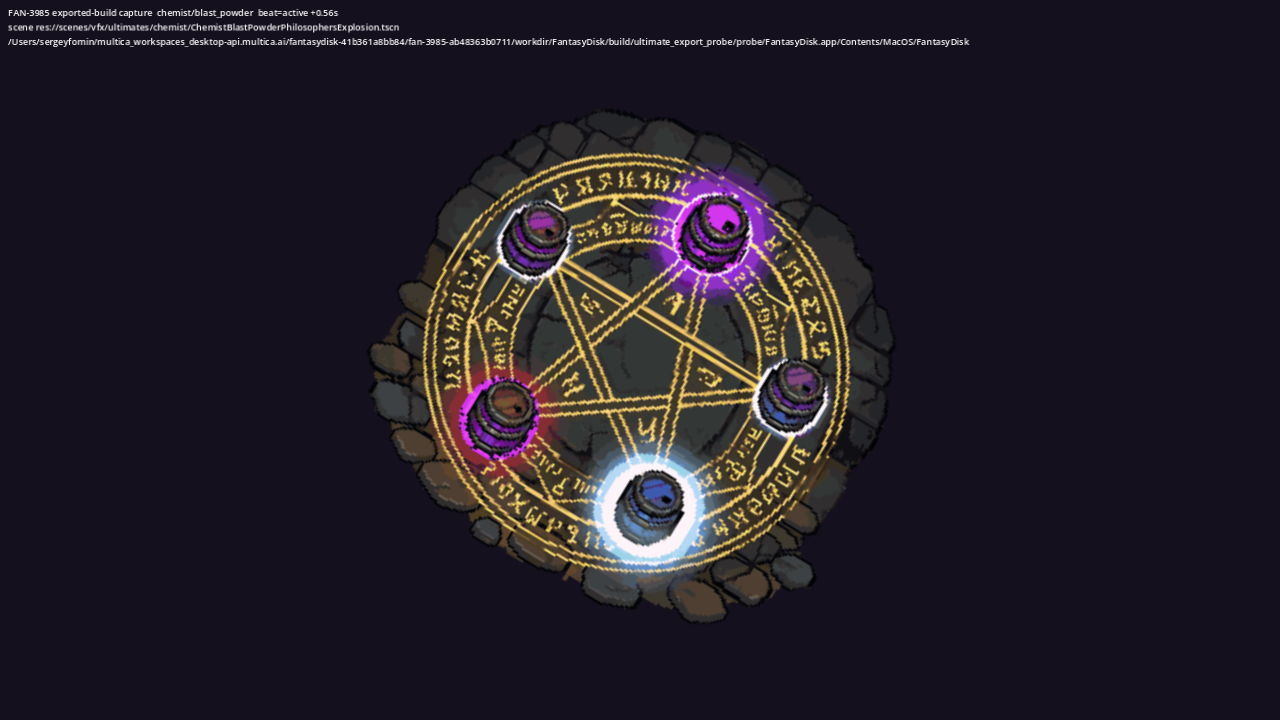
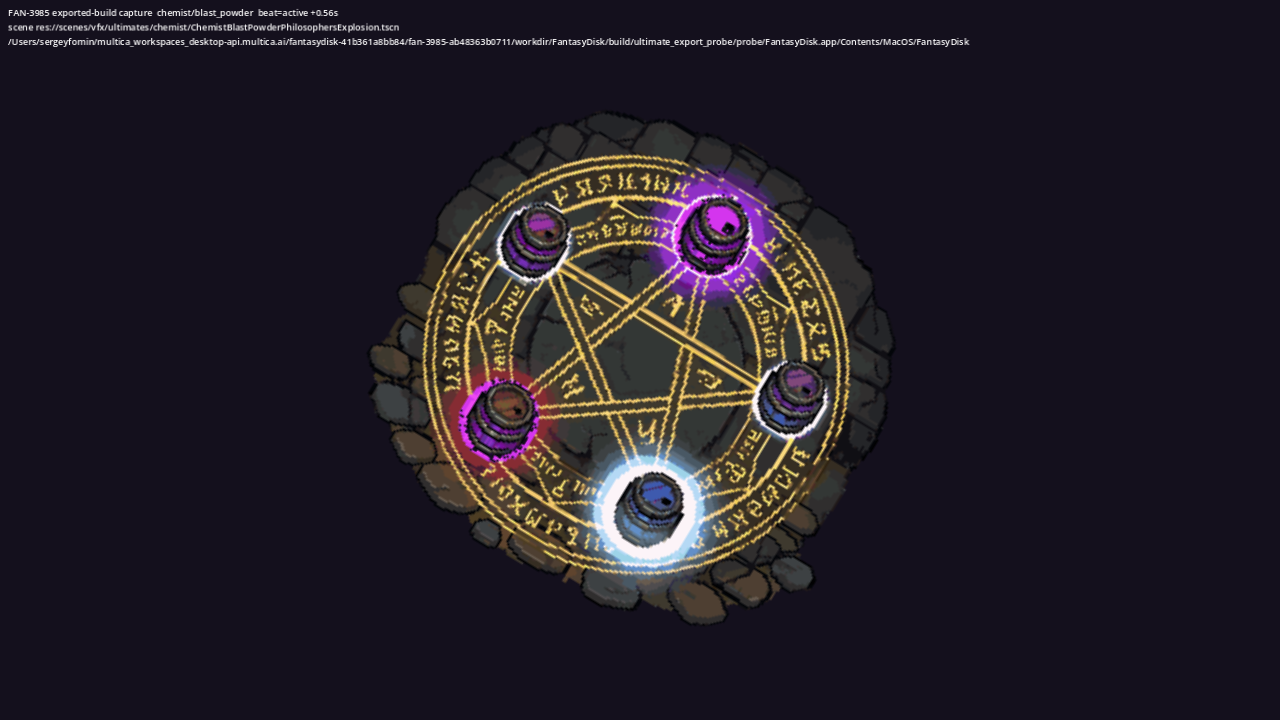
evidence(FAN-3985): regenerate exported-build evidence from 09d692b5
Re-exported and re-probed after the source_path provenance fix: 51/51 pairs
weapon_profile with begin() inside the exported macOS app, PCK listing, both
failing mutation checks and 17 per-class captures from the exported app.

Changed region(s): [[0.3125, 0.2139, 0.6875, 0.825], [0.5625, 0.825, 0.5938, 0.8556]]

diff --git a/evidence/FAN-3985/README.md b/evidence/FAN-3985/README.md
@@ -3,8 +3,8 @@
 Evidence for the exported-build regression fix. Everything below was produced on
 the macOS development host with Godot `4.7.stable.official.5b4e0cb0f` and the
 official 4.7 export templates, from the candidate code commit
-`c16085f7e6c9fe797efee6c6fa1bf091b4055edd` (tree
-`b305eae77bbfe2f4cdf886debd0cfb4a7a75aa4f`), based on `dev` =
+`09d692b5ea687fc870931dd26c616192bc3518ab` (tree
+`0610635d64421bd4ba124c325abd60234985affa`), based on `dev` =
 `f4d05fea91a5ce8b3fb858a5035df1fe54236369`. The evidence commit that carries
 this directory changes nothing the export reads (`evidence/*` is excluded from
 both presets), so the exported PCK of the review candidate is byte-identical to
